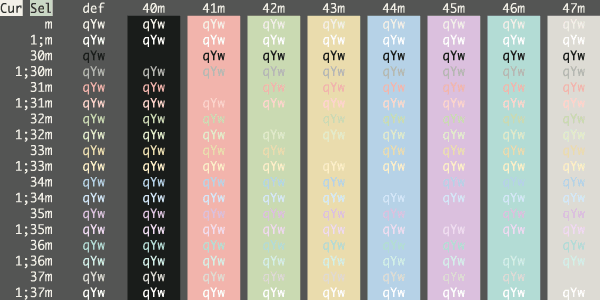
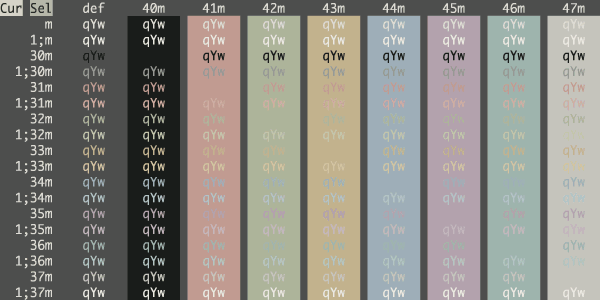
feat: soften Stone with darker muted mineral colors
Darken the background slightly to #4E4F4E and replace pastel accents and bright text with subdued clay, lichen, sandstone, slate, and smoky quartz. Regenerate the iTerm2 preset and preview.

Created with OpenAI Codex assistance.

diff --git a/CREDITS.md b/CREDITS.md
@@ -986,4 +986,4 @@ The Wasteland Terminal theme was created by [chlp](https://github.com/chlp/ghost
 
 The Nudisia theme was created by [Mark Badolato](https://terminalthemes.com/users/01M38A2BPFG85ZT6EQ6PFA2WTM).
 
-The Stone theme was created by [Kyle Purdon](https://github.com/kpurdon) with OpenAI Codex assistance. Its neutral gray background matches the macOS Stone solid desktop color in sRGB, with an original mineral-inspired palette.
+The Stone theme was created by [Kyle Purdon](https://github.com/kpurdon) with OpenAI Codex assistance. Inspired by the macOS Stone solid desktop color, it pairs a slightly darker neutral gray background with an original, muted mineral palette.
